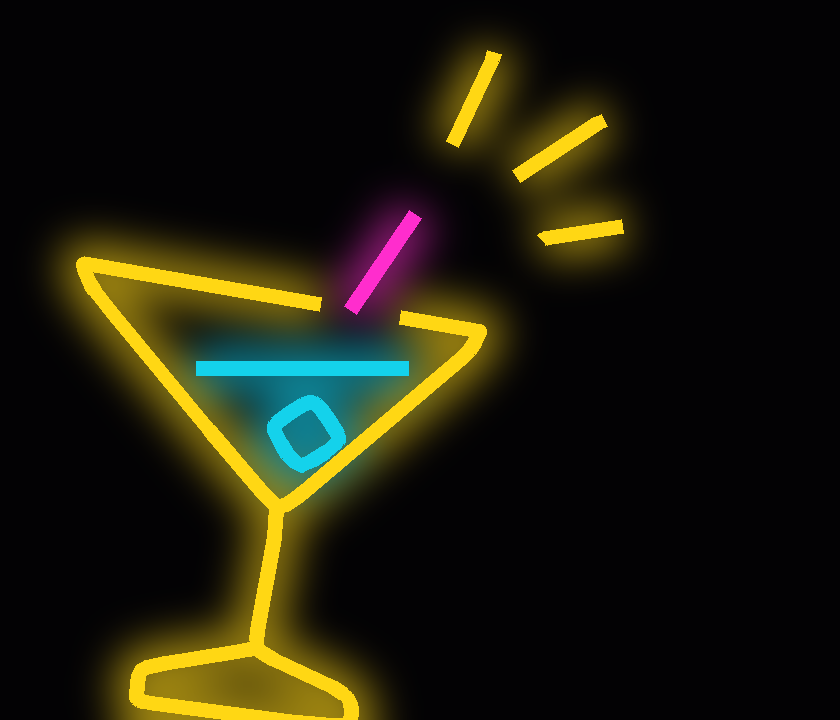
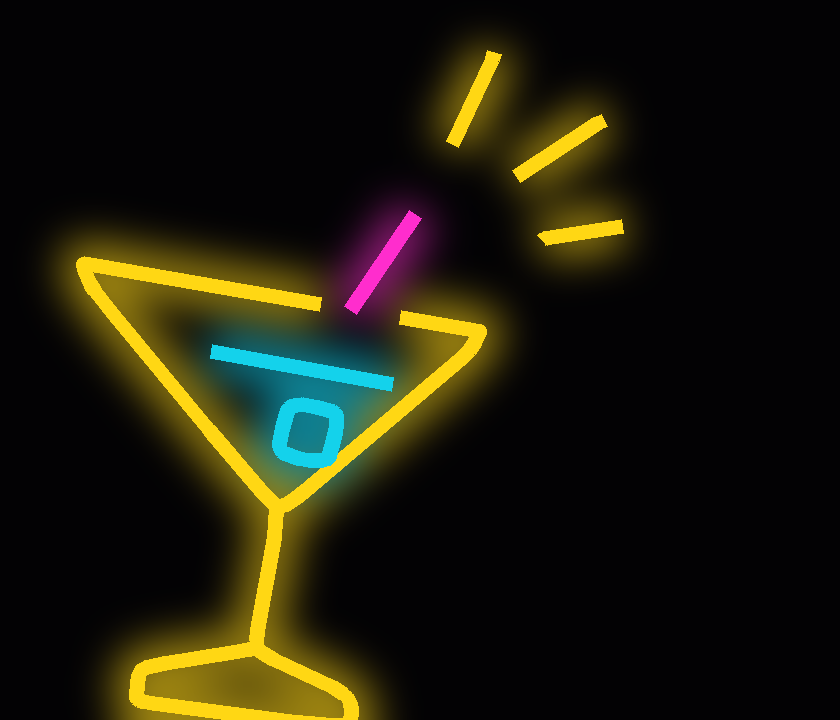
Sign glass: liquid line parallel to the rim, olive square aligned with it (D-478)

Changed region(s): [[0.3095, 0.4583, 0.4952, 0.6722], [0.2167, 0.4583, 0.3405, 0.5806]]

diff --git a/tools/ui_art/gen_title_inl.py b/tools/ui_art/gen_title_inl.py
@@ -71,6 +71,7 @@ def group(col, cx):
 
 
 LIQUID_Y, LIQUID_X0, LIQUID_X1 = 244.0, 898.0, 1004.0  # 잔 속 술 선 (원본 화소): 앞쪽 테(y 222) 아래, 양쪽 벽에서 20 쯤 띄움
+LIQUID_HALF = 46.0  # 기운 술 선의 반 길이 (오른쪽 벽이 가까워져 조금 줄임)
 OLIVE_DY = 18.0  # 올리브를 술 선 아래로 내림 (선끼리 붙지 않게)
 RIM_GAP = (960.0, 1000.0)  # 윗변에서 꼬치가 지나는 틈 (원본 x)
 PICK_EXT = 10.0  # 꼬치를 아래로 늘리는 길이 (원본 화소, 시작 화면 너비 580 에서 약 5px)
@@ -86,12 +87,16 @@ def split_liquid(col, P):
     if col != 'yellow': return [(col, P)]
     xs = [p[0] for p in P]; ys = [p[1] for p in P]
     if P[0] == P[-1] and max(xs) - min(xs) < 50 and max(ys) - min(ys) < 50:
-        # 올리브: 잔 윗변과 같은 기울기로 돌린다 (D-477, 왼쪽 모서리 842,190 → 오른쪽 1040,226)
+        # 잔 윗변 기울기 (왼쪽 모서리 842,190 → 오른쪽 1040,226). 술 선은 윗변과 평행 (D-478),
+        # 올리브는 마름모(45° 돌린 정사각형)를 a - 45° 더 돌려 네 변이 윗변과 평행한 정사각형으로 (D-478, 인게임 참고 그림처럼)
         cx, cy = sum(xs[:-1]) / (len(P) - 1), sum(ys[:-1]) / (len(P) - 1)
         a = math.atan2(226.0 - 190.0, 1040.0 - 842.0)
-        ca, sa = math.cos(a), math.sin(a)
-        olive = [(cx + (x - cx) * ca - (y - cy) * sa, cy + OLIVE_DY + (x - cx) * sa + (y - cy) * ca) for x, y in P]
-        return [('liquid', olive), ('liquid', [(LIQUID_X0, LIQUID_Y), (LIQUID_X1, LIQUID_Y)])]
+        r = a - math.pi / 4
+        cr, sr = math.cos(r), math.sin(r)
+        olive = [(cx + (x - cx) * cr - (y - cy) * sr, cy + OLIVE_DY + (x - cx) * sr + (y - cy) * cr) for x, y in P]
+        lx, ly, h = (LIQUID_X0 + LIQUID_X1) / 2, LIQUID_Y, LIQUID_HALF
+        liquid = [(lx - h * math.cos(a), ly - h * math.sin(a)), (lx + h * math.cos(a), ly + h * math.sin(a))]
+        return [('liquid', olive), ('liquid', liquid)]
     # 잔 테 (D-475): 윗변은 왼쪽 모서리 ~ 오른쪽 모서리를 잇는 곧은 선 하나 (잔 전체가 살짝 기운 모양), 꼬치 자리만 틈.
     # 원본은 뒤쪽 테(y 190)와 앞쪽 테(y 222)가 따로라 앞쪽 테를 지우면 윗변이 두 높이로 찌그러져 보였다 (D-474)
     i = xs.index(max(xs))

diff --git a/docs/05-decision-log.md b/docs/05-decision-log.md
@@ -471,3 +471,4 @@
 | D-475 | 2026-11-23 | 잔 윗변을 곧은 선 하나로 (D-474 수정): 왼쪽 모서리(원본 842, 190) ~ 오른쪽 모서리(1040, 226)를 잇는 직선, 꼬치 자리(x 960 ~ 1000)만 틈. 잔 전체가 살짝 기운 모양. 원본은 뒤쪽 테(y 190)와 앞쪽 테(y 222)가 따로라 앞쪽 테를 지우면 윗변이 두 높이로 찌그러졌다 | 사용자: 찌그러진 잔, 삼각형 윗변이 직선으로 맞아야 한다 | 오른쪽 모서리를 y 190 까지 올리기 (잔 입이 오른쪽으로 너무 넓어짐) |
 | D-476 | 2026-11-23 | 잔 꼬치(분홍)를 아래로 약 5px 더 길게: 곧은 선으로 펴고 아래끝을 원본 10 화소 늘림 (981, 207 → 975, 215). 윗변 틈(x 960 ~ 1000) 안으로 들어간다 | 사용자: 핑크색 빨대 5픽셀 정도 밑으로 길게 | — |
 | D-477 | 2026-11-23 | 잔 속 하늘색 올리브를 잔 윗변과 같은 기울기(약 10°)로 돌림. 술 선은 수평 그대로 | 사용자: 파란색 올리브도 잔과 같은 기울기로 | — |
+| D-478 | 2026-11-23 | 잔 속 술 선을 윗변과 평행하게 기울이고(반 길이 46, 오른쪽 벽과 띄움), 올리브는 마름모 대신 네 변이 윗변과 평행한 정사각형으로 (인게임 참고 그림처럼, D-477 수정) | 사용자: 각도 · 직사각형이 아니고 올리브도 윗변과 평행하게 | 마름모를 10° 돌리기 (D-477) |
